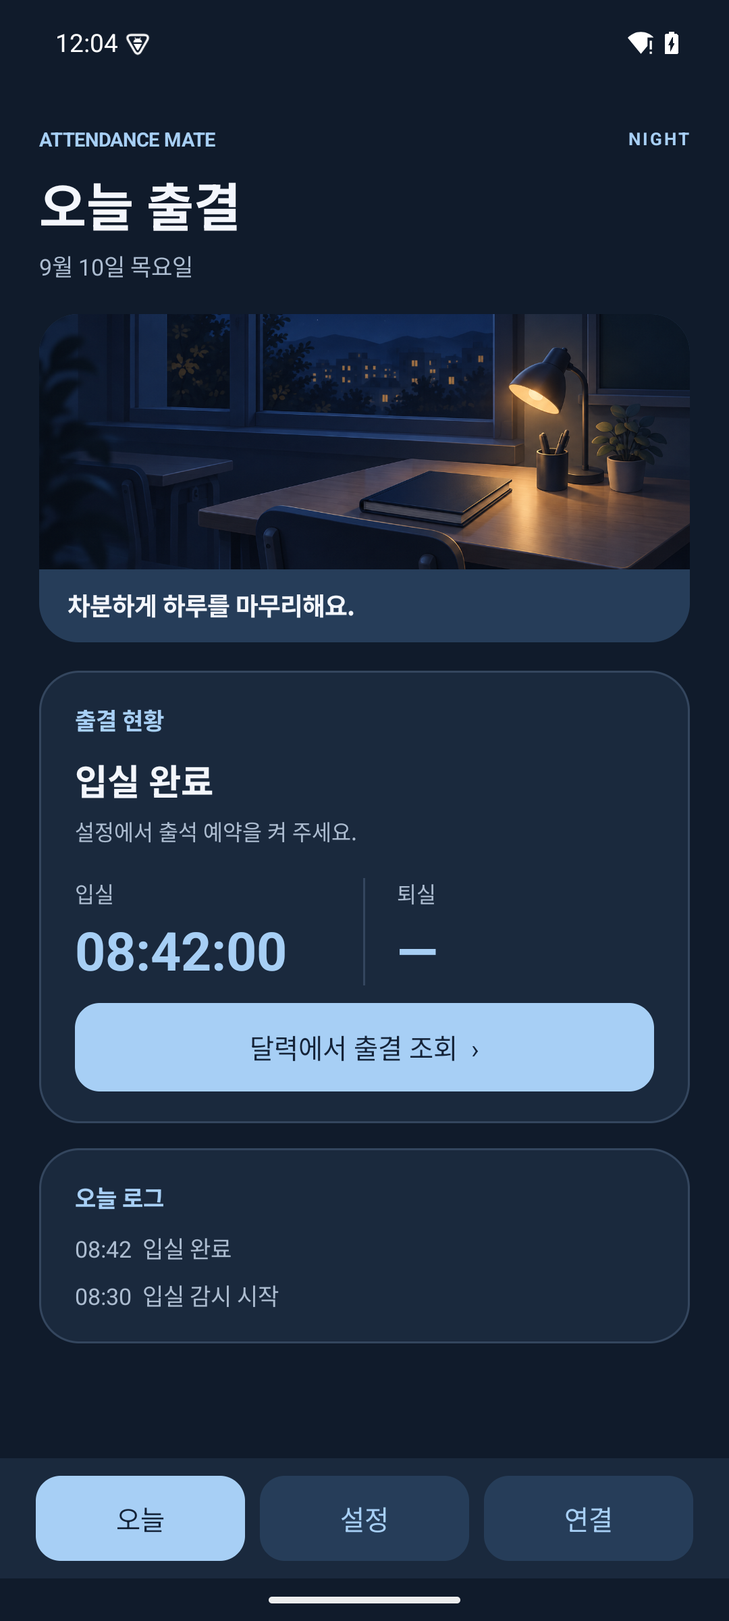
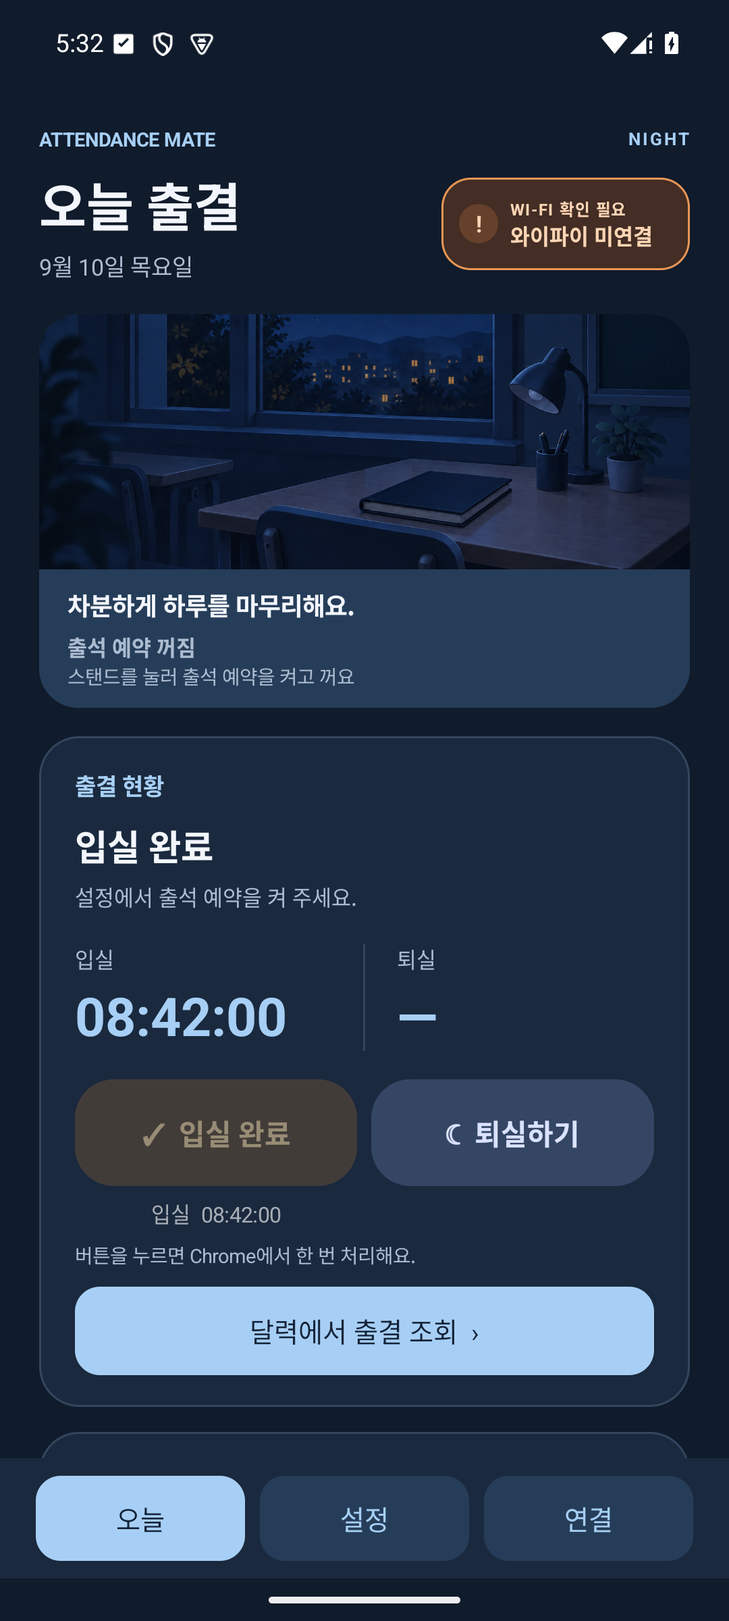
Release v0.9.3 with reservation restart fix and Today status updates

diff --git a/app/src/main/java/net/tacademy/attendance/MainActivity.java b/app/src/main/java/net/tacademy/attendance/MainActivity.java
@@ -30,7 +30,7 @@ public final class MainActivity extends Activity {
     private LinearLayout todayWifiPanel;
     private HomeTheme homeTheme;
     private StandSceneView reservationScene;
-    private TextView reservationState;
+    private TextView reservationState, entryReceipt, exitReceipt;
     private Button enterNow, leaveNow;
     private LocalDate homeDay;
     private String homeCheckout, homeEntryEnd;
@@ -143,8 +143,13 @@ public final class MainActivity extends Activity {
             heading.addView(text("ATTENDANCE MATE", 11, homeTheme.accent, true), new LinearLayout.LayoutParams(0, -2, 1));
             TextView mode = text(night ? "NIGHT" : "DAYLIGHT", 10, homeTheme.accent, true);
             mode.setLetterSpacing(.12f); heading.addView(mode); content.addView(heading); gap(content, 8);
-            content.addView(text("오늘 출결", 29, homeTheme.ink, true)); gap(content, 4);
-            content.addView(text(now.format(DateTimeFormatter.ofPattern("M월 d일 EEEE", Locale.KOREAN)), 13, homeTheme.muted, false));
+            LinearLayout titleRow=new LinearLayout(this);titleRow.setTag("today-header");titleRow.setGravity(Gravity.CENTER_VERTICAL);
+            LinearLayout titles=new LinearLayout(this);titles.setOrientation(LinearLayout.VERTICAL);
+            titles.addView(text("오늘 출결",29,homeTheme.ink,true));gap(titles,4);
+            titles.addView(text(now.format(DateTimeFormatter.ofPattern("M월 d일 EEEE",Locale.KOREAN)),13,homeTheme.muted,false));
+            titleRow.addView(titles,new LinearLayout.LayoutParams(0,-2,1));
+            LinearLayout.LayoutParams wifiParams=new LinearLayout.LayoutParams(dp(140),-2);wifiParams.leftMargin=dp(10);
+            titleRow.addView(wifiBadge(),wifiParams);content.addView(titleRow);
             gap(content, 18); home();
         } else {
             content.addView(text("T  /  ATTENDANCE MATE", 12, TEAL, true)); gap(content, 10);
@@ -219,33 +224,53 @@ public final class MainActivity extends Activity {
         LinearLayout quick=new LinearLayout(this);
         enterNow=attendanceButton("☀  입실하기",Policy.Phase.ENTRY);enterNow.setTag("attendance-enter-now");
         leaveNow=attendanceButton("☾  퇴실하기",Policy.Phase.CHECKOUT);leaveNow.setTag("attendance-leave-now");
-        LinearLayout.LayoutParams enterParams=new LinearLayout.LayoutParams(0,dp(60),1);enterParams.rightMargin=dp(8);
-        quick.addView(enterNow,enterParams);quick.addView(leaveNow,new LinearLayout.LayoutParams(0,dp(60),1));state.addView(quick);
+        LinearLayout enterColumn=new LinearLayout(this);enterColumn.setOrientation(LinearLayout.VERTICAL);
+        LinearLayout leaveColumn=new LinearLayout(this);leaveColumn.setOrientation(LinearLayout.VERTICAL);
+        enterColumn.addView(enterNow,new LinearLayout.LayoutParams(-1,dp(60)));
+        leaveColumn.addView(leaveNow,new LinearLayout.LayoutParams(-1,dp(60)));
+        entryReceipt=receiptLabel("attendance-entry-time");exitReceipt=receiptLabel("attendance-exit-time");
+        enterColumn.addView(entryReceipt,new LinearLayout.LayoutParams(-1,-2));leaveColumn.addView(exitReceipt,new LinearLayout.LayoutParams(-1,-2));
+        LinearLayout.LayoutParams enterParams=new LinearLayout.LayoutParams(0,-2,1);enterParams.rightMargin=dp(8);
+        quick.addView(enterColumn,enterParams);quick.addView(leaveColumn,new LinearLayout.LayoutParams(0,-2,1));state.addView(quick);
         TextView quickHint=text("버튼을 누르면 Chrome에서 한 번 처리해요.",11,homeTheme.muted,false);quickHint.setPadding(0,dp(7),0,0);state.addView(quickHint);
         gap(state, 10);
         state.addView(button("달력에서 출결 조회  ›", true, this::attendanceCalendar), new LinearLayout.LayoutParams(-1, -2));
         LinearLayout log = card("오늘 출석 기록");
         todayLog = text("", 13, homeTheme.muted, false); todayLog.setLineSpacing(dp(8), 1); log.addView(todayLog);
-        todayWifiPanel=card("");todayWifiPanel.setTag("today-wifi-panel");
-        todayWifiPanel.setOrientation(LinearLayout.HORIZONTAL);todayWifiPanel.setGravity(Gravity.CENTER_VERTICAL);
-        todayWifiPanel.setAccessibilityLiveRegion(View.ACCESSIBILITY_LIVE_REGION_POLITE);
-        todayWifiIcon=text("!",24,homeTheme.ink,true);todayWifiIcon.setGravity(Gravity.CENTER);
-        todayWifiIcon.setImportantForAccessibility(View.IMPORTANT_FOR_ACCESSIBILITY_NO);
-        LinearLayout.LayoutParams iconParams=new LinearLayout.LayoutParams(dp(44),dp(44));iconParams.rightMargin=dp(14);
-        todayWifiPanel.addView(todayWifiIcon,iconParams);
-        LinearLayout wifiLabels=new LinearLayout(this);wifiLabels.setOrientation(LinearLayout.VERTICAL);
-        todayWifi=text("",20,homeTheme.ink,true);todayWifi.setTag("today-wifi");wifiLabels.addView(todayWifi);
-        todayWifiHint=text("",13,homeTheme.muted,false);gap(wifiLabels,4);wifiLabels.addView(todayWifiHint);
-        todayWifiPanel.addView(wifiLabels,new LinearLayout.LayoutParams(0,-2,1));
         updateHome();
     }
 
+    private LinearLayout wifiBadge(){
+        todayWifiPanel=new LinearLayout(this);todayWifiPanel.setTag("today-wifi-panel");
+        todayWifiPanel.setOrientation(LinearLayout.HORIZONTAL);todayWifiPanel.setGravity(Gravity.CENTER_VERTICAL);
+        todayWifiPanel.setPadding(dp(10),dp(9),dp(10),dp(9));todayWifiPanel.setMinimumHeight(dp(52));
+        todayWifiPanel.setAccessibilityLiveRegion(View.ACCESSIBILITY_LIVE_REGION_POLITE);
+        todayWifiIcon=text("!",13,homeTheme.ink,true);todayWifiIcon.setGravity(Gravity.CENTER);
+        todayWifiIcon.setImportantForAccessibility(View.IMPORTANT_FOR_ACCESSIBILITY_NO);
+        LinearLayout.LayoutParams iconParams=new LinearLayout.LayoutParams(dp(22),dp(22));iconParams.rightMargin=dp(7);
+        todayWifiPanel.addView(todayWifiIcon,iconParams);
+        LinearLayout labels=new LinearLayout(this);labels.setOrientation(LinearLayout.VERTICAL);
+        todayWifiHint=text("WI-FI",9,homeTheme.muted,true);todayWifiHint.setLetterSpacing(.08f);labels.addView(todayWifiHint);
+        todayWifi=text("",12,homeTheme.ink,true);todayWifi.setTag("today-wifi");labels.addView(todayWifi);
+        todayWifiPanel.addView(labels,new LinearLayout.LayoutParams(0,-2,1));return todayWifiPanel;
+    }
+    private TextView receiptLabel(String tag){
+        TextView label=text("",12,homeTheme==HomeTheme.NIGHT?0xFFA8ADB6:0xFF75736F,false);
+        label.setTag(tag);label.setGravity(Gravity.CENTER);label.setFontFeatureSettings("tnum");
+        label.setPadding(0,dp(7),0,0);label.setVisibility(View.GONE);return label;
+    }
+    private void showReceipt(TextView label,String name,String time){
+        setIfChanged(label,time.isEmpty()?"":name+"  "+time);label.setVisibility(time.isEmpty()?View.GONE:View.VISIBLE);
+        label.setContentDescription(time.isEmpty()?"":name+" 확인 시각 "+time);
+    }
     private Button attendanceButton(String label,Policy.Phase phase){
         Button button=button(label,false,()->manualAttendance(phase));boolean night=homeTheme==HomeTheme.NIGHT;
         button.setTextSize(16);button.setTypeface(null,Typeface.BOLD);button.setBackground(shape(phase==Policy.Phase.ENTRY?(night?0xFF624B35:0xFFFFDEB8):(night?0xFF354665:0xFFE2E6FB),22));
         button.setTextColor(phase==Policy.Phase.ENTRY?(night?0xFFFFDEA3:0xFF794C24):(night?0xFFDAE2FF:0xFF515D91));return button;
     }
     private void manualAttendance(Policy.Phase phase){
+        Policy.Record confirmed=prefs.history(LocalDate.now(Policy.ZONE));
+        if(confirmed!=null&&(phase==Policy.Phase.ENTRY?confirmed.checkedIn():confirmed.checkedOut())){updateHome();return;}
         if(ChromeAttendanceService.busy()){toast("출결 결과를 확인하고 있어요. 잠시 기다려 주세요.");return;}
         String key=LocalDate.now(Policy.ZONE)+":"+phase;
         if(key.equals(prefs.raw.getString("chrome_pending",""))){
@@ -285,9 +310,10 @@ public final class MainActivity extends Activity {
             : "설정에서 출석 예약을 켜 주세요.";
         if (MonitorService.running) description = prefs.raw.getString("detail", description);
         boolean busy=ChromeAttendanceService.busy()||ActivationRun.pending();
-        if(ActivationRun.pending()){title=ActivationRun.label();description="완료 기록을 먼저 확인하고, 미처리이면 한 번 눌러요.";}
+        if(ActivationRun.pending()){title=ActivationRun.label();description="완료 기록을 먼저 확인해요. 이전 요청이 있으면 중복으로 누르지 않아요.";}
         setIfChanged(enterNow,!entry.isEmpty()?"✓  입실 완료":"☀  입실하기");enterNow.setEnabled(entry.isEmpty()&&!busy);enterNow.setAlpha(enterNow.isEnabled()?1f:.55f);
         setIfChanged(leaveNow,!exit.isEmpty()?"✓  퇴실 완료":"☾  퇴실하기");leaveNow.setEnabled(exit.isEmpty()&&!busy);leaveNow.setAlpha(leaveNow.isEnabled()?1f:.55f);
+        showReceipt(entryReceipt,"입실",entry);showReceipt(exitReceipt,"퇴실",exit);
         setIfChanged(status, title); setIfChanged(detail, description);
         setIfChanged(inTime, entry.isEmpty() ? "—" : entry); setIfChanged(outTime, exit.isEmpty() ? "—" : exit);
         // Show confirmed attendance times; operational diagnostics stay in their existing log.
@@ -301,21 +327,20 @@ public final class MainActivity extends Activity {
         int wifiBackground=matched?(night?0xFF193A37:0xFFE5F3EC):(night?0xFF432D24:0xFFFFE7D2);
         int wifiBorder=matched?(night?0xFF3D7468:0xFF9ACCB8):(night?0xFFE89756:0xFFD97A39);
         setIfChanged(todayWifi,matched?"대기 중":"와이파이 미연결");
-        setIfChanged(todayWifiHint,matched?"대상 Wi-Fi 연결됨":"등록한 강의실 Wi-Fi를 연결해 주세요");
+        setIfChanged(todayWifiHint,matched?"WI-FI 연결됨":"WI-FI 확인 필요");
         setIfChanged(todayWifiIcon,matched?"✓":"!");
         todayWifi.setTextColor(wifiInk);todayWifiHint.setTextColor(wifiInk);todayWifiIcon.setTextColor(wifiInk);
         todayWifiIcon.setBackground(shape(matched?(night?0xFF28564B:0xFFC7E6D9):(night?0xFF66402B:0xFFF9C49A),22));
-        GradientDrawable wifiShape=shape(wifiBackground,20);wifiShape.setStroke(dp(matched?1:2),wifiBorder);todayWifiPanel.setBackground(wifiShape);
+        GradientDrawable wifiShape=shape(wifiBackground,16);wifiShape.setStroke(dp(1),wifiBorder);todayWifiPanel.setBackground(wifiShape);
         todayWifiPanel.setContentDescription("대상 와이파이 인식 상태 · "+todayWifi.getText()+" · "+todayWifiHint.getText());
     }
 
     private void setAttendanceReservation(boolean enabled) {
         int returnTab=selected;
         pendingStart = false;
-        if (!enabled && !prefs.enabled()) { render(returnTab); return; }
-        if(enabled&&ChromeAttendanceService.busy()){toast("출결 결과를 확인 중이에요. 잠시 기다려 주세요.");return;}
         if (!enabled) {
-            ActivationRun.cancel();prefs.enabled(false); ScheduleController.reconcile(this);
+            ActivationRun.cancel();prefs.enabled(false);
+            ChromeAttendanceService.cancelForReservationOff();ScheduleController.reconcile(this);
             Notices.wifi(this, false, ""); prefs.log("출석 예약 꺼짐"); render(returnTab); return;
         }
         if (prefs.ssids().isEmpty() || prefs.days().isEmpty()) { toast("Wi-Fi와 수업 요일을 먼저 등록해 주세요"); return; }
@@ -328,7 +353,8 @@ public final class MainActivity extends Activity {
         LocationManager lm = getSystemService(LocationManager.class);
         if (Build.VERSION.SDK_INT >= 28 && !lm.isLocationEnabled()) { toast("휴대폰 위치 기능을 켜 주세요"); openSettings(Settings.ACTION_LOCATION_SOURCE_SETTINGS); return; }
         prefs.enabled(true);prefs.raw.edit().putBoolean("auto",true).apply();prefs.log("출석 예약 켜짐");
-        boolean immediate=ActivationRun.start(this);ScheduleController.reconcile(this);render(immediate?0:returnTab);
+        boolean immediate=!ChromeAttendanceService.busy()&&ActivationRun.start(this);
+        ScheduleController.reconcile(this);render(immediate?0:returnTab);
     }
 
     private void reservationSettings() {
@@ -348,7 +374,7 @@ public final class MainActivity extends Activity {
         }
         automation.addView(choices);
         note(automation,ActivationRun.pending()?ActivationRun.label():prefs.enabled() ? "예약 켜짐 · 출석 시간에 자동 시작" : "예약 꺼짐");
-        note(automation,"켜기를 누르면 자동 클릭도 켜지고, 지금 가능한 미처리 출결을 5초 뒤 한 번 실행해요. 이전 요청이 있어도 실제 완료 기록을 먼저 확인해요. 예약이 이미 켜져 있어도 다시 누를 수 있어요.");
+        note(automation,"켜기를 누르면 자동 클릭도 켜지고, 지금 가능한 미처리 출결을 5초 뒤 한 번 실행해요. 이전 요청이 있으면 완료 기록만 먼저 확인해요. 예약이 이미 켜져 있어도 다시 누를 수 있어요.");
         String checkoutEnd = LocalTime.parse(prefs.checkout()).plusMinutes(prefs.retryMinutes()).format(DateTimeFormatter.ofPattern("HH:mm"));
         note(automation,"자동 감시는 수업일의 아래 시간에만 작동합니다.\n입실 " + prefs.start() + "–" + prefs.end()
             + " · 퇴실 " + Policy.checkoutStartTime(prefs.checkout()) + "–" + checkoutEnd + "\n출석 완료 또는 시간 종료 시 GPS 감시도 멈춥니다.");

diff --git a/app/src/androidTest/java/net/tacademy/attendance/ReplicaChecks.java b/app/src/androidTest/java/net/tacademy/attendance/ReplicaChecks.java
@@ -42,8 +42,12 @@ final class ReplicaChecks {
         check(NetworkAccess.inspect(c).allowed(),"Real network guard passes using the emulator Wi-Fi");
         if(checkout)p.raw.edit().putString("record_day",LocalDate.now(Policy.ZONE).toString()).putString("in","08:45:00").commit();
         // Automatic entry uses unchanged production launch/address/date/click/result code.
-        ui(()->{if(checkout)ChromeAttendanceService.beginManual(main,Policy.Phase.CHECKOUT,false,false);else ChromeAttendanceService.begin(main,null);});
-        await(()->ChromeAttendanceService.busy(),3000,"Production attendance session started");
+        if(scenario.equals("pending-read")){
+            p.raw.edit().putString("chrome_pending",LocalDate.now(Policy.ZONE)+":ENTRY").putLong("chrome_pending_at",System.currentTimeMillis()-10000).commit();
+            ui(()->{main.getWindow().getDecorView().findViewWithTag("reservation-stand").performClick();main.getWindow().getDecorView().findViewWithTag("reservation-stand").performClick();});
+            check(p.enabled()&&ActivationRun.pending(),"Real stand OFF/ON re-enables the reservation and queues its countdown");
+        }else ui(()->{if(scenario.equals("already-in"))main.getWindow().getDecorView().findViewWithTag("attendance-enter-now").performClick();else if(checkout)ChromeAttendanceService.beginManual(main,Policy.Phase.CHECKOUT,false,false);else ChromeAttendanceService.begin(main,null);});
+        await(()->ChromeAttendanceService.busy(),scenario.equals("pending-read")?10000:3000,"Production attendance session started");
         if(scenario.startsWith("focus")){
             await(()->hasReason("PAGE_SETTLING"),10000,"Replica page visible before focus interruption");
             ui(()->c.startActivity(new Intent(c,MainActivity.class).addFlags(Intent.FLAG_ACTIVITY_NEW_TASK|Intent.FLAG_ACTIVITY_SINGLE_TOP)));
@@ -74,6 +78,13 @@ final class ReplicaChecks {
             JSONObject state=control("/state");
             if(Set.of("auth","wrong-date","server-error","no-course","auth-message","denied","rate-limit","human-check","network-error").contains(scenario)){
                 check(state.getInt("entries")==0,"Invalid page never submits entry");check(!p.checkedInToday(),"Invalid page never reports success");
+            }else if(scenario.equals("pending-read")){
+                check(state.getInt("entries")==0&&countEvent("BUTTON_REQUEST")==0&&!p.checkedInToday(),"OFF/ON of an uncertain click only reads the page; it never resubmits or invents success");
+                check((LocalDate.now(Policy.ZONE)+":ENTRY").equals(p.raw.getString("chrome_pending",""))&&countEvent("MANUAL_FINISHED")==1,"Record-only activation keeps the uncertain click marker after the read");
+            }else if(scenario.equals("already-in")){
+                check(p.checkedInToday()&&state.getInt("entries")==0&&countEvent("BUTTON_REQUEST")==0,"Existing site entry is read without submitting another entry");
+                ui(()->c.startActivity(new Intent(c,MainActivity.class).addFlags(Intent.FLAG_ACTIVITY_NEW_TASK|Intent.FLAG_ACTIVITY_REORDER_TO_FRONT)));
+                await(()->{var v=main.getWindow().getDecorView().findViewWithTag("attendance-entry-time");return v instanceof android.widget.TextView&&v.getVisibility()==android.view.View.VISIBLE&&((android.widget.TextView)v).getText().toString().equals("입실  08:45:00");},5000,"Returning from Chrome displays its confirmed entry time below the button");
             }else if(scenario.equals("no-result")){
                 check(state.getInt("entries")==1,"Unconfirmed result is submitted only once");check(!p.checkedInToday(),"Missing server time is not success");
                 check(TrafficGuard.prefs(c).getBoolean("paused:ENTRY",false)&&!p.raw.getString("chrome_pending","").isEmpty(),"Unconfirmed click retains pause and durable pending marker");
@@ -126,5 +137,5 @@ final class ReplicaChecks {
         Bitmap b=test.getUiAutomation(UiAutomation.FLAG_DONT_SUPPRESS_ACCESSIBILITY_SERVICES).takeScreenshot();if(b!=null){try(var f=new FileOutputStream(new File(dir,scenario+".png"))){b.compress(Bitmap.CompressFormat.PNG,100,f);}b.recycle();}
     }
     private void dump(android.view.accessibility.AccessibilityNodeInfo n,StringBuilder out,int depth){if(n==null||depth>40)return;out.append(" ".repeat(depth)).append(n.getClassName()).append(" text=[").append(n.getText()).append("] desc=[").append(n.getContentDescription()).append("] visible=").append(n.isVisibleToUser()).append(" enabled=").append(n.isEnabled()).append(" clickable=").append(n.isClickable()).append(" children=").append(n.getChildCount()).append('\n');for(int i=0;i<n.getChildCount();i++)dump(n.getChild(i),out,depth+1);}
-    @SuppressWarnings("unchecked") private void restore(){if(c==null||saved.isEmpty())return;ui(()->{ChromeAttendanceService.cancelWork();new Prefs(c).enabled(false);AlarmScheduler.cancel(c);c.stopService(new Intent(c,MonitorService.class));if(main!=null)main.finish();for(var group:saved.entrySet()){var edit=c.getSharedPreferences(group.getKey(),0).edit().clear();for(var item:group.getValue().entrySet()){var v=item.getValue();var k=item.getKey();if(v instanceof String)edit.putString(k,(String)v);else if(v instanceof Boolean)edit.putBoolean(k,(Boolean)v);else if(v instanceof Long)edit.putLong(k,(Long)v);else if(v instanceof Integer)edit.putInt(k,(Integer)v);else if(v instanceof Float)edit.putFloat(k,(Float)v);else if(v instanceof Set)edit.putStringSet(k,new HashSet<>((Set<String>)v));}edit.commit();}});}
+    @SuppressWarnings("unchecked") private void restore(){if(c==null||saved.isEmpty())return;ui(()->{ActivationRun.cancel();ChromeAttendanceService.cancelWork();new Prefs(c).enabled(false);AlarmScheduler.cancel(c);c.stopService(new Intent(c,MonitorService.class));if(main!=null)main.finish();for(var group:saved.entrySet()){var edit=c.getSharedPreferences(group.getKey(),0).edit().clear();for(var item:group.getValue().entrySet()){var v=item.getValue();var k=item.getKey();if(v instanceof String)edit.putString(k,(String)v);else if(v instanceof Boolean)edit.putBoolean(k,(Boolean)v);else if(v instanceof Long)edit.putLong(k,(Long)v);else if(v instanceof Integer)edit.putInt(k,(Integer)v);else if(v instanceof Float)edit.putFloat(k,(Float)v);else if(v instanceof Set)edit.putStringSet(k,new HashSet<>((Set<String>)v));}edit.commit();}});}
 }

diff --git a/app/src/androidTest/java/net/tacademy/attendance/ManualAttendanceChecks.java b/app/src/androidTest/java/net/tacademy/attendance/ManualAttendanceChecks.java
@@ -45,6 +45,21 @@ final class ManualAttendanceChecks {
         main(()->{set("manualSession",false);p.enabled(true);p.raw.edit().putStringSet("days",Set.of()).commit();ScheduleController.reconcile(c);});
         check(ChromeAttendanceService.busy(),"Ending scheduled monitoring preserves observation after an accepted click");
         main(()->{p.enabled(false);ScheduleController.reconcile(c);});check(!ChromeAttendanceService.busy(),"Explicit reservation-off cancels automatic result observation");
+        // Regression: five-second activation uses a manual session, which reconcile intentionally preserves.
+        String pending=p.raw.getString("chrome_pending","");int[] finished={0};
+        main(()->{p.enabled(true);set("manualSession",true);set("working",true);set("clicked",true);set("key",pending);set("finished",(Runnable)()->finished[0]++);renderSettings();a.getWindow().getDecorView().findViewWithTag("reservation-off").performClick();});
+        check(!p.enabled()&&!ChromeAttendanceService.busy()&&finished[0]==1,"OFF button immediately ends a manual result wait and finishes it once");
+        check(pending.equals(p.raw.getString("chrome_pending",""))&&p.raw.getLong("chrome_pending_at",0)==1,"OFF preserves submitted click marker and original timestamp");
+        main(()->{a.getWindow().getDecorView().findViewWithTag("reservation-off").performClick();});
+        check(finished[0]==1&&countEvent("ATTEMPT_CANCELLED")==1,"Repeated OFF neither repeats completion nor starts another request");
+        main(()->{p.raw.edit().putStringSet("days",Set.of("1","2","3","4","5","6","7")).putStringSet("excluded",Set.of()).putString("start","00:00").putString("end","00:01").putString("checkout","00:02").putBoolean("auto",true).commit();a.getWindow().getDecorView().findViewWithTag("reservation-on").performClick();});
+        check(p.enabled()&&ActivationRun.pending(),"ON works immediately after cancelling a manual result wait");
+        main(()->{renderSettings();a.getWindow().getDecorView().findViewWithTag("reservation-off").performClick();});
+        check(!p.enabled()&&!ActivationRun.pending(),"OFF still cancels a newly queued five-second run");
+        main(()->{set("working",true);set("manualSession",true);set("clicked",false);a.getWindow().getDecorView().findViewWithTag("reservation-on").performClick();});
+        check(p.enabled()&&ChromeAttendanceService.busy()&&!ActivationRun.pending(),"Enabling future reservations during a manual run does not start a competing activation");
+        main(()->{renderSettings();a.getWindow().getDecorView().findViewWithTag("reservation-off").performClick();});
+        check(!p.enabled()&&!ChromeAttendanceService.busy(),"Explicit OFF also cancels the click-before phase of manual work");
         check(TrafficGuard.prefs(c).getInt("total",0)==AccessPolicy.DAILY_LIMIT&&DiagnosticLog.records(c).toString().split("CHROME_OPEN_REQUEST",-1).length==opens,"Manual checks never bypass the daily cap or contact attendance");
         main(()->{
             p.raw.edit().putStringSet("days",Set.of("1","2","3","4","5","6","7")).putStringSet("excluded",Set.of()).putString("start","00:00").putString("end","00:01").putString("checkout","00:02").putBoolean("auto",true).commit();
@@ -61,6 +76,10 @@ final class ManualAttendanceChecks {
         main(()->{renderTab(0);a.getWindow().getDecorView().findViewWithTag("reservation-stand").performClick();});
         SystemClock.sleep(5300);check(!ActivationRun.pending()&&!p.enabled()&&countEvent("ACTIVATION_FIRED")==fired+1,"Tapping the stand again turns OFF and cancels the countdown");
         check(DiagnosticLog.records(c).toString().split("CHROME_OPEN_REQUEST",-1).length==opens,"Activation checks never contact the attendance site");
+        main(()->{renderTab(0);p.record(LocalDate.now(Policy.ZONE).toString(),new Policy.Record("08:45:00",""));a.getWindow().getDecorView().findViewWithTag("attendance-enter-now").performClick();});
+        TextView receipt=(TextView)a.getWindow().getDecorView().findViewWithTag("attendance-entry-time");
+        check(receipt.getVisibility()==View.VISIBLE&&receipt.getText().toString().equals("입실  08:45:00"),"Entry button immediately reveals a newly confirmed time below it");
+        check(DiagnosticLog.records(c).toString().split("CHROME_OPEN_REQUEST",-1).length==opens,"Already known entry is shown without reopening Chrome");
         restore();result.putString("stream","PASS: "+count+" manual attendance and result-deadline checks. No real site access.\n");test.finish(Activity.RESULT_OK,result);
     }catch(Throwable e){try{restore();}catch(Throwable ignored){}result.putString("stream","FAIL: "+e+"\n");test.finish(Activity.RESULT_CANCELED,result);}}
     private int countEvent(String name){int result=0;var records=DiagnosticLog.records(c);for(int i=0;i<records.length();i++){var e=records.optJSONObject(i);if(e!=null&&name.equals(e.optString("event_code")))result++;}return result;}

diff --git a/app/src/androidTest/java/net/tacademy/attendance/ThemeChecks.java b/app/src/androidTest/java/net/tacademy/attendance/ThemeChecks.java
@@ -51,7 +51,11 @@ public final class ThemeChecks {
             check(value("todayWifi").equals("와이파이 미연결"),"Unmatched Wi-Fi shows the warning label");
             runOnMainSync(()->((ScrollView)field("homeScroll")).fullScroll(View.FOCUS_DOWN));SystemClock.sleep(300);capture("wifi-warning-warm.png");
             View panel=activity.getWindow().getDecorView().findViewWithTag("today-wifi-panel");ViewGroup parent=(ViewGroup)panel.getParent();
-            check(parent.getChildAt(parent.getChildCount()-1)==panel,"Wi-Fi warning remains the last Today card");
+            check("today-header".equals(parent.getTag())&&parent.getChildAt(parent.getChildCount()-1)==panel,"Wi-Fi status sits at the right of the Today title");
+            runOnMainSync(()->((ScrollView)field("homeScroll")).fullScroll(View.FOCUS_UP));SystemClock.sleep(250);
+            android.graphics.Rect bounds=new android.graphics.Rect();check(panel.getGlobalVisibleRect(bounds)&&bounds.right<=activity.getWindow().getDecorView().getWidth(),"Header Wi-Fi badge stays visible within the screen");
+            TextView receipt=(TextView)activity.getWindow().getDecorView().findViewWithTag("attendance-entry-time");
+            check(receipt.getVisibility()==View.VISIBLE&&receipt.getText().toString().equals("입실  08:42:00")&&receipt.getCurrentTextColor()==0xFF75736F,"Confirmed entry appears in quiet gray directly under the button");
             String observed=NetworkAccess.inspect(context).ssid();check(!observed.isEmpty(),"Emulator Wi-Fi is visible for refresh verification");
             runOnMainSync(()->prefs.ssids(Set.of(observed)));settle();check(value("todayWifi").equals("대기 중"),"Registering connected Wi-Fi refreshes warning to waiting");capture("wifi-waiting.png");
             runOnMainSync(()->{prefs.ssids(Set.of("__EMULATOR_NO_MATCH__"));((ScrollView)field("homeScroll")).fullScroll(View.FOCUS_UP);});settle();
@@ -59,6 +63,7 @@ public final class ThemeChecks {
             at(day,16,50,0);
             check(theme()==HomeTheme.NIGHT && value("inTime").equals("08:42:00") && value("todayLog").contains("입실 완료"),
                 "Visible screen switches automatically and preserves records and logs");
+            check(((TextView)activity.getWindow().getDecorView().findViewWithTag("attendance-entry-time")).getCurrentTextColor()==0xFFA8ADB6,"Night receipt uses a readable soft gray");
             artworkStates("night");
             capture("today-night.png");
             runOnMainSync(()->((ScrollView)field("homeScroll")).fullScroll(View.FOCUS_DOWN));SystemClock.sleep(300);capture("wifi-warning-night.png");
@@ -87,6 +92,7 @@ public final class ThemeChecks {
             at(day.plusDays(1),0,0,0);
             check(theme()==HomeTheme.WARM && value("inTime").equals("—") && value("todayLog").equals("아직 확인된 출석 기록이 없습니다."),
                 "Midnight resets the theme and loads the new day's records");
+            check(activity.getWindow().getDecorView().findViewWithTag("attendance-entry-time").getVisibility()==View.GONE,"Next day does not show yesterday's receipt below the button");
             runOnMainSync(() -> activity.moveTaskToBack(true));
             clock.instant=day.atTime(20,0).atZone(Policy.ZONE).toInstant();
             context.startActivity(new Intent(context,MainActivity.class).addFlags(Intent.FLAG_ACTIVITY_NEW_TASK|Intent.FLAG_ACTIVITY_REORDER_TO_FRONT)); settle();

diff --git a/scripts/analyze_lock_logs.py b/scripts/analyze_lock_logs.py
@@ -167,7 +167,7 @@ def render(rows, skipped):
                   "CLICK_PLANNED": "클릭 직전 기록", "BUTTON_FAILED": "클릭 요청 거절", "CONFIRM_REQUEST": "퇴실 확인 요청",
                   "WAKE_REQUESTED": "화면 깨우기 요청", "WAKE_VISIBLE": "깨우기 화면 포커스", "WAKE_BLOCKED": "화면 깨우기 차단",
                   "WAKE_AUTH_REQUIRED": "사용자 인증 필요", "WAKE_DISMISS_REQUEST": "시스템 잠금 해제 요청",
-                  "WAKE_DISMISS_RESULT": "시스템 잠금 해제 응답", "WAKE_FINISHED": "잠금 처리 종료", "PAGE_RECOVERY_WAIT": "클릭 전 화면 복구 대기", "PRECLICK_DEFERRED": "클릭 전 일시 중단", "CHROME_DIAGNOSTIC": "화면·사이트 관찰", "ATTEMPT_FAILED": "출결 시도 중단 진단"}
+                  "WAKE_DISMISS_RESULT": "시스템 잠금 해제 응답", "WAKE_FINISHED": "잠금 처리 종료", "PAGE_RECOVERY_WAIT": "클릭 전 화면 복구 대기", "PRECLICK_DEFERRED": "클릭 전 일시 중단", "CHROME_DIAGNOSTIC": "화면·사이트 관찰", "ATTEMPT_FAILED": "출결 시도 중단 진단", "ATTEMPT_CANCELLED": "사용자가 출결 확인 취소"}
         lines += ["", "## 일반 출결 동작", "", f"일반 동작 {len(events)}건. Chrome 내부 HTTP 요청 건수와 다릅니다."]
         for code, label in labels.items():
             lines.append(f"- {label}: {counts[code]}건")

diff --git a/app/src/main/java/net/tacademy/attendance/DiagnosticLog.java b/app/src/main/java/net/tacademy/attendance/DiagnosticLog.java
@@ -13,7 +13,7 @@ final class DiagnosticLog {
         CHROME_OPEN_FAILED, BUTTON_REQUEST, BUTTON_FAILED, CONFIRM_REQUEST, RECORD_CONFIRMED, AUTOMATIC_PAUSED, NETWORK_DIAGNOSTIC_LOCAL,
         ALARM_ARMED, ALARM_FIRED, ALARM_FAILED, MONITOR_START_REQUEST, MONITOR_START_RECEIVED, MONITOR_START_FAILED,
         CHROME_STAGE, CLICK_PLANNED, WAKE_REQUESTED, WAKE_VISIBLE, WAKE_BLOCKED, WAKE_AUTH_REQUIRED,
-        ACTIVATION_QUEUED, ACTIVATION_FIRED, WAKE_DISMISS_REQUEST, WAKE_DISMISS_RESULT, WAKE_FINISHED, ACCESSIBILITY_CONNECTED, RESULT_WAIT_STARTED, MANUAL_REQUEST, MANUAL_BLOCKED, MANUAL_FINISHED, PAGE_RECOVERY_WAIT, PRECLICK_DEFERRED, CHROME_DIAGNOSTIC, ATTEMPT_FAILED }
+        ACTIVATION_QUEUED, ACTIVATION_FIRED, WAKE_DISMISS_REQUEST, WAKE_DISMISS_RESULT, WAKE_FINISHED, ACCESSIBILITY_CONNECTED, RESULT_WAIT_STARTED, MANUAL_REQUEST, MANUAL_BLOCKED, MANUAL_FINISHED, PAGE_RECOVERY_WAIT, PRECLICK_DEFERRED, CHROME_DIAGNOSTIC, ATTEMPT_FAILED, ATTEMPT_CANCELLED }
     static SharedPreferences prefs(Context c){return c.getSharedPreferences("attendance_diagnostics",Context.MODE_PRIVATE);}
     static synchronized void add(Context c,Event event,Policy.Phase phase,String reason){
         add(c,event,phase,reason,new JSONObject());

diff --git a/app/src/main/java/net/tacademy/attendance/ChromeAttendanceService.java b/app/src/main/java/net/tacademy/attendance/ChromeAttendanceService.java
@@ -446,6 +446,15 @@ public final class ChromeAttendanceService extends AccessibilityService {
         Runnable done = finished; finished = null;
         if (done != null) done.run();
     }
+    /** An explicit OFF stops manual/activation work too, while retaining any durable click marker. */
+    public static void cancelForReservationOff(){
+        if(instance==null||!instance.working)return;
+        ChromeAttendanceService s=instance;org.json.JSONObject d=s.attemptDetails();
+        try{d.put("click_attempted",s.clickAttempted||s.clicked).put("click_accepted",s.clicked)
+            .put("pending_click",s.key!=null&&s.key.equals(new Prefs(s).raw.getString("chrome_pending","")));}catch(org.json.JSONException ignored){}
+        DiagnosticLog.add(s,DiagnosticLog.Event.ATTEMPT_CANCELLED,s.phase,"RESERVATION_OFF",d);
+        s.finishWork();
+    }
     public static void cancelWork() { if (instance != null) instance.finishWork(); }
     public static void launchLockTest(Context context, Intent intent) {
         Context source=instance!=null?instance:context;

diff --git a/app/src/main/java/net/tacademy/attendance/ActivationRun.java b/app/src/main/java/net/tacademy/attendance/ActivationRun.java
@@ -22,8 +22,9 @@ final class ActivationRun {
             Prefs current=new Prefs(activity);
             if(activity.isFinishing()||activity.isDestroyed()||!current.enabled()||!current.auto()||!day.equals(LocalDate.now(Policy.ZONE).toString()))return;
             DiagnosticLog.add(activity,DiagnosticLog.Event.ACTIVATION_FIRED,selected,"EXPLICIT_ENABLE");
-            // The explicit activation requests one retry; Chrome must first read today's actual record.
-            ChromeAttendanceService.beginManual(activity,selected,false,true);
+            // Enabling a reservation must not authorize a duplicate pending click after an OFF/ON cycle.
+            boolean pendingClick=(day+":"+selected).equals(current.raw.getString("chrome_pending",""));
+            ChromeAttendanceService.beginManual(activity,selected,pendingClick,false);
             ScheduleController.reconcile(activity);
         };
         DiagnosticLog.add(activity,DiagnosticLog.Event.ACTIVATION_QUEUED,phase,"FIVE_SECOND_DELAY");

diff --git a/README.md b/README.md
@@ -2,10 +2,18 @@
 
 기존 **휴대폰 Chrome의 인증 상태**로 SK플래닛 출석 버튼을 처리하는 개인용 앱입니다.
 
-[제작자용 APK 다운로드 · v0.9.2](https://github.com/dnjsml0206-blip/classroom-attendance-android/releases/tag/v0.9.2)
+[제작자용 APK 다운로드 · v0.9.3](https://github.com/dnjsml0206-blip/classroom-attendance-android/releases/tag/v0.9.3)
 
 **실제 수강생 Chrome 인증과 강의실 Wi-Fi에서 확인이 필요한 초기 테스트 버전입니다.**
 설정의 **잠금 중 처리 방식**을 일반 예약에 적용합니다. 기본값은 Extend Unlock · 신뢰 상태이며, 화면 깨우기·시스템 인증 요청도 선택할 수 있습니다. 이전 알림 전용 설정은 Extend Unlock으로 적용됩니다. 실제 휴대폰이 화면 표시를 제한하거나 인증을 요구하면 사용자의 조작이 필요합니다.
+
+## v0.9.3 · 예약 다시 켜기와 오늘 화면
+
+예약을 껐는데 결과 확인 작업이 남아 다시 켜지지 않던 문제를 수정했습니다. OFF는 현재 작업과 5초 대기를 종료하고, 이미 보낸 클릭의 기록은 유지합니다. 다시 켰을 때 미확인 요청이 있으면 완료 기록만 먼저 조회합니다.
+
+확인된 입실·퇴실 시각을 해당 버튼 아래 작은 회색 글씨로 표시합니다. Wi-Fi 상태는 **오늘 제목 우상단**의 배지로 옮겼으며 연결은 녹색, 미연결은 주황색 계열로 표시합니다. 낮·밤 테마에 맞춰 색상을 조정합니다.
+
+[설치와 변경 내용](docs/releases/v0.9.3.md) · [원인과 검증](docs/home-reservation-fix-2026-09-16.md)
 
 ## v0.9.2 · 화면 복구와 실패 원인 진단
 
@@ -49,7 +57,7 @@
 
 ‘알림 후 직접 해제’ 선택지는 제거하고 기본값을 **Extend Unlock · 신뢰 상태**로 변경했습니다. 이전 알림 전용 선택도 자동 방식으로 적용되며, 별도로 선택한 화면 깨우기·시스템 인증 방식은 유지합니다. 입실·퇴실마다 하루 한 번, 최대 2분 시도하며 출석 예약·자동 클릭·등록 Wi-Fi·출석 시간 조건은 계속 적용합니다.
 
-**오늘 화면 맨 아래**에 대상 Wi-Fi를 인식하면 **대기 중**, 인식하지 못하면 **와이파이 미연결**을 표시합니다. 오늘 화면을 보는 동안 갱신하며 출결 서버를 조회하지 않습니다. 이 표시는 Wi-Fi 인식 상태로, 출석 처리 완료나 인터넷 정상 여부를 뜻하지 않습니다.
+**오늘 화면 우상단**에 대상 Wi-Fi를 인식하면 **대기 중**, 인식하지 못하면 **와이파이 미연결**을 표시합니다. 오늘 화면을 보는 동안 갱신하며 출결 서버를 조회하지 않습니다. 이 표시는 Wi-Fi 인식 상태로, 출석 처리 완료나 인터넷 정상 여부를 뜻하지 않습니다.
 
 **설정 맨 아래 → 진단 · 제작자용 → 잠금 상태 테스트 열기**에서 대체 클릭 시험을 실행합니다. 실제 입실·퇴실 시험 대신 Chrome에서 휴대폰 내부 시험 버튼을 자동으로 누르고 화면 변경을 확인합니다. 출석 시간·강의실 Wi-Fi 밖에서도 시험할 수 있으며, 성공·실패와 이유를 앱과 결과 알림에 남깁니다. 버튼을 직접 누르지 마세요.
 
@@ -89,7 +97,7 @@
 
 ## 설치와 설정
 
-1. 릴리스의 `classroom-attendance-0.9.2-creator-debug.apk`를 설치합니다. Android 8.0 이상을 지원하며 이전 릴리스 위에 업데이트할 수 있습니다.
+1. 릴리스의 `classroom-attendance-0.9.3-creator-debug.apk`를 설치합니다. Android 8.0 이상을 지원하며 이전 릴리스 위에 업데이트할 수 있습니다.
 2. 연결 탭에서 **Chrome 출결 화면 열기**를 눌러 평소처럼 인증된 페이지가 열리는지 확인합니다. 이미 인증된 경우 재인증할 필요가 없습니다.
 3. **Chrome 접근성 설정**에서 출석 메이트 서비스를 켭니다.
 4. 정확한 위치·알림 권한을 허용하고 위치 권한을 **항상 허용**으로 설정합니다. 강의실 이탈 알림은 ‘연결 및 확인 알림’ 채널도 허용해야 합니다. **알람 및 리마인더**도 허용합니다.

diff --git a/docs/home-reservation-fix-2026-09-16.md b/docs/home-reservation-fix-2026-09-16.md
@@ -1,0 +1,29 @@
+# 예약 OFF/ON 및 오늘 화면 수정
+
+## 원인
+
+출석 예약을 켜면 ActivationRun이 5초 뒤 beginManual을 호출한다. 이 경로는 manualSession으로 실행된다. 예약을 끌 때 기존 ScheduleController.reconcile은 cancelScheduledWork만 호출했고, 이 함수는 예약 시간 밖에서도 수동 출결을 계속 확인하기 위해 manualSession을 보존한다. 그 결과 예약 OFF 뒤에도 busy 상태가 남았고 ON 버튼의 busy 검사에서 재활성화를 막았다.
+
+## 수정
+
+- 명시적으로 예약 OFF를 누르면 5초 대기와 현재 출결 작업을 함께 종료한다. 예약 시간 종료 등 일반 reconcile에서는 기존 수동 작업 보존 정책을 유지한다.
+- 이미 클릭한 경우 저장된 날짜·단계·클릭 시각 및 접속 제한을 유지한다. OFF/ON 뒤 5초 실행은 이전 요청이 있으면 기록 조회만 수행한다. 임의의 재클릭은 하지 않는다.
+- 현재 수동 작업 중에도 미래 출석 예약은 켤 수 있다. 진행 중인 작업과 경쟁하는 5초 실행은 추가하지 않는다.
+- 사용자가 끈 사실은 ATTEMPT_CANCELLED / RESERVATION_OFF로 진단에 남긴다.
+- 오늘 입실·퇴실 버튼 아래에 사이트에서 확인한 시각을 12sp 회색으로 표시한다. 수기 달력 값이나 이전 날짜의 시각을 완료 근거로 사용하지 않는다. 이미 확인된 입실을 누르면 Chrome을 다시 열지 않는다.
+- Wi-Fi 상태를 오늘 제목 우상단의 작은 배지로 옮겼다. 낮·밤에 맞춰 연결은 녹색, 미연결은 살구색 계열로 구분하며 텍스트는 대기 중 / 와이파이 미연결을 유지한다. 하단 카드는 제거했다.
+
+## 검증
+
+- Java 단위 테스트 106개, 로그 분석 Python 테스트 19개 통과.
+- Android lint 오류 0개 (경고 8개), 앱 및 테스트 APK 빌드 성공.
+- 전용 API 35 에뮬레이터에서 수동 실행·예약 OFF/ON 검사 24개 통과. 수동 결과 대기 취소, 완료 콜백 1회, 클릭 기록 유지, 즉시 재활성화, 5초 대기 취소, 이미 확인된 시각 표시를 포함한다.
+- 실제 Android Chrome + 전체 요청을 로컬에서 응답하는 재현 환경에서 25개 검사 통과: `already-in` 12개, `pending-read` 13개. 입실 완료 화면을 읽어 버튼 아래에 표시하고, OFF/ON으로 이전 요청을 재시도하지 않는 것을 확인했다. 두 경우 모두 제출 0회, 실제 출석 서버 요청 0회.
+- 낮/밤 테마·Wi-Fi 우상단 배치·회색 시각·날짜 전환·기존 달력 등 화면 검사 30개 통과. 실제 캡처에서 글자 잘림과 배치를 확인했다.
+- 기존 배포 APK와 같은 서명 인증서로 검증했다. v0.9.3 / versionCode 18로 버전 번호를 올린 뒤 제작자용 APK를 다시 빌드하고 서명을 확인했다.
+
+검증 자료: `build/home-reservation-fix-2026-09-16/` (Git 제외).
+
+배포 APK: `classroom-attendance-0.9.3-creator-debug.apk` (v0.9.3, versionCode 18).
+
[1 lines of base64/hex data omitted]

diff --git a/docs/releases/v0.9.3.md b/docs/releases/v0.9.3.md
@@ -1,0 +1,18 @@
+# 출석 메이트 v0.9.3
+
+제작자용 APK: **classroom-attendance-0.9.3-creator-debug.apk**
+
+기존 앱을 삭제하지 말고 APK로 업데이트하세요. 이전 릴리스와 같은 서명을 사용하며 versionCode 18입니다. 설치 후 앱을 한 번 열어 출석 예약과 접근성 연결 상태를 확인하세요.
+
+## 이번 변경
+
+- 예약 OFF 뒤에도 5초 실행에서 시작한 결과 확인 작업이 남아 ON을 막던 문제를 수정했습니다. 끄기를 누르면 대기와 현재 작업을 종료하고 다시 켤 수 있습니다.
+- 이미 보낸 클릭의 기록과 접속 제한은 유지합니다. 예약을 다시 켰을 때 미확인 클릭이 남아 있으면 완료 기록만 먼저 조회해 중복 클릭을 막습니다.
+- 이미 입실한 경우 Chrome에서 확인한 입실 시각을 버튼 아래 작은 회색 글씨로 표시합니다. 퇴실 시각도 같은 방식으로 표시하며 다음 날에는 전날 시각을 표시하지 않습니다.
+- Wi-Fi 상태를 오늘 탭 제목 우상단 배지로 이동했습니다. 연결은 녹색의 ‘대기 중’, 미연결은 주황색의 ‘와이파이 미연결’로 구분하며 낮·밤 테마를 적용합니다.
+
+## 확인된 범위
+
+Java 단위 106개, 로그 분석 19개, 예약·수동 실행 24개, 실제 Android Chrome의 로컬 응답 재현 25개, 오늘 화면 30개 검사 통과. 이미 입실된 경우 추가 제출 없이 시간을 표시하고, 미확인 클릭이 남은 상태에서 OFF/ON을 해도 다시 제출하지 않는 것을 검증했습니다. 실제 출석 서버 요청은 사용하지 않았습니다.
+
+[원인과 상세 검증](https://github.com/dnjsml0206-blip/classroom-attendance-android/blob/v0.9.3/docs/home-reservation-fix-2026-09-16.md)
